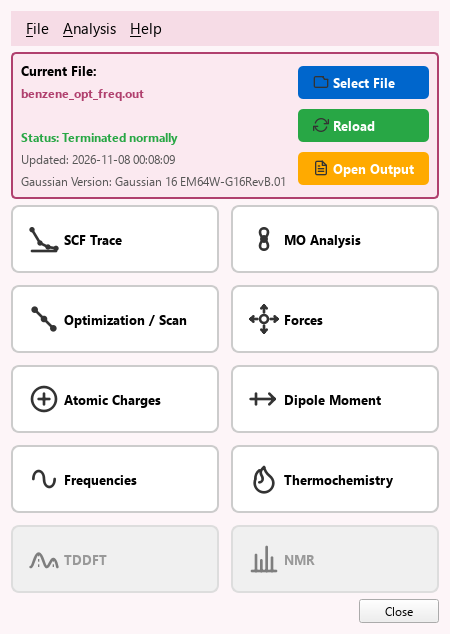
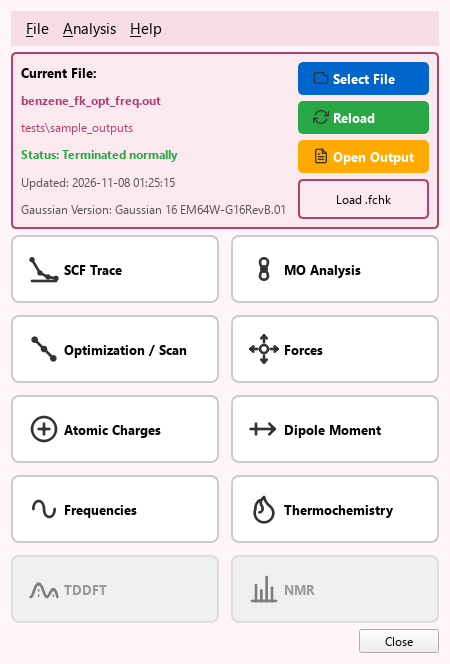
Validate checkpoint attachments and add Pages verification
Reject incompatible charge, spin and incomplete geometry, refuse missing orbitals, and validate shell data before replacing results. Add regression coverage and refresh fchk guidance and the main-window screenshot.

Assisted-by: GPT-6.1 Sol

diff --git a/google84ba9bc3a8e4c11c.html b/google84ba9bc3a8e4c11c.html
@@ -1,0 +1,1 @@
+google-site-verification: google84ba9bc3a8e4c11c.html

diff --git a/tests/test_fchk.py b/tests/test_fchk.py
@@ -10,6 +10,7 @@ import os
 import sys
 import types
 import unittest
+from unittest.mock import patch
 
 try:
     import numpy as np
@@ -265,6 +266,49 @@ class TestOrbitalsFromACheckpointAreOrthonormal(unittest.TestCase):
 
 
 class TestALogWithACheckpoint(unittest.TestCase):
+    def test_charge_spin_and_incomplete_geometry_are_refused(self):
+        for key, value, reason in (
+            ("charge", 1, "charge"),
+            ("mult", 3, "multiplicity"),
+            ("coords", [[0.0, 0.0, 0.0]], "geometry"),
+        ):
+            with self.subTest(field=key):
+                parser = _log("water_fk_plain")
+                parser.data[key] = value
+                self.assertIn(reason, parser.merge_fchk(_text("water_fk_plain.fchk")))
+                self.assertEqual(parser.data["mo_coeffs"], {})
+
+    def test_missing_orbitals_are_not_reported_as_a_success(self):
+        parser = _log("water_fk_mo")
+        original = parser.data["mo_coeffs"]
+        sections = _module("fchk").read_sections(_text("water_fk_mo.fchk"))
+        del sections["Alpha MO coefficients"]
+        with patch.object(_module("fchk"), "read_sections", return_value=sections):
+            self.assertIn("no complete", parser.merge_fchk("checkpoint"))
+        self.assertIs(parser.data["mo_coeffs"], original)
+
+    def test_damaged_basis_is_rejected_without_replacing_existing_orbitals(self):
+        for name, value in (
+            ("Shell to atom map", [99]),
+            ("Shell to atom map", [0]),
+            ("Number of primitives per shell", [0]),
+            ("Primitive exponents", [1.0]),
+            ("P(S=P) Contraction coefficients", [1.0]),
+            ("Shell types", [99]),
+        ):
+            with self.subTest(section=name, value=value):
+                parser = _log("water_fk_mo")
+                original = parser.data["mo_coeffs"]
+                sections = _module("fchk").read_sections(_text("water_fk_mo.fchk"))
+                if name in ("Shell to atom map", "Number of primitives per shell", "Shell types"):
+                    sections[name][0] = value[0]
+                else:
+                    sections[name] = value
+                with patch.object(_module("fchk"), "read_sections", return_value=sections):
+                    with self.assertRaises(ValueError):
+                        parser.merge_fchk("checkpoint")
+                self.assertIs(parser.data["mo_coeffs"], original)
+
     def test_the_orbitals_join_the_logs_results(self):
         parser = _log("water_fk_plain")
         self.assertEqual(parser.merge_fchk(_text("water_fk_plain.fchk")), "")
@@ -293,6 +337,12 @@ class TestALogWithACheckpoint(unittest.TestCase):
 
 
 class TestDamagedAndForeignFiles(unittest.TestCase):
+    def test_incomplete_coordinate_array_is_rejected(self):
+        sections = _module("fchk").read_sections(_text("water_fk_mo.fchk"))
+        sections["Current cartesian coordinates"].pop()
+        with self.assertRaisesRegex(ValueError, "coordinates"):
+            _module("fchk").structure(sections)
+
     def test_other_text_is_not_a_checkpoint(self):
         fchk = _module("fchk")
         self.assertFalse(fchk.looks_like_fchk(_text("water_fk_mo.out")))

diff --git a/gaussian_result_analyzer/fchk.py b/gaussian_result_analyzer/fchk.py
@@ -143,6 +143,10 @@ def _triples(values, factor=1.0):
 def structure(sections):
     """(element symbols, coordinates in Angstrom)."""
     atoms = [_symbol(number) for number in sections["Atomic numbers"]]
+    if len(atoms) != sections.get("Number of atoms", len(atoms)) or len(
+        sections["Current cartesian coordinates"]
+    ) != 3 * len(atoms):
+        raise ValueError("The checkpoint coordinates do not match the number of atoms.")
     return atoms, _triples(
         sections["Current cartesian coordinates"], BOHR_TO_ANGSTROM
     )
@@ -157,7 +161,19 @@ def basis_shells(sections, coords):
     coefficients = sections.get("Contraction coefficients")
     if not (types and counts and atoms and exponents and coefficients):
         return []
+    if not (len(types) == len(counts) == len(atoms)) or any(
+        count < 1 for count in counts
+    ):
+        raise ValueError("The checkpoint shell arrays have inconsistent lengths.")
+    if any(atom < 1 or atom > len(coords) for atom in atoms):
+        raise ValueError("The checkpoint shell map refers to a missing atom.")
+    if sum(counts) != len(exponents) or len(exponents) != len(coefficients):
+        raise ValueError("The checkpoint primitive arrays have inconsistent lengths.")
     sp_coefficients = sections.get("P(S=P) Contraction coefficients")
+    if -1 in types and (not sp_coefficients or len(sp_coefficients) != len(exponents)):
+        raise ValueError("An SP shell has incomplete P coefficients.")
+    if any(abs(shell_type) >= len(_SHELL_LETTER) for shell_type in types):
+        raise ValueError("The checkpoint contains an unsupported shell type.")
     shells = []
     start = 0
     for shell_type, count, atom in zip(types, counts, atoms):
@@ -423,10 +439,16 @@ def why_it_differs(log_data, sections):
     atoms, coords = structure(sections)
     if atoms != log_data.get("atoms"):
         return "its atoms differ from the output file's"
+    for key, name in (("charge", "Charge"), ("mult", "Multiplicity")):
+        if name in sections and sections[name] != log_data.get(key):
+            return f"its {name.lower()} differs from the output file's"
+    log_coords = log_data.get("coords") or []
+    if len(coords) != len(log_coords) or any(len(row) != 3 for row in log_coords):
+        return "its geometry or orientation differs from the output file's"
     largest = max(
         (
             abs(a - b)
-            for pair in zip(coords, log_data.get("coords") or [])
+            for pair in zip(coords, log_coords)
             for a, b in zip(*pair)
         ),
         default=float("inf"),

diff --git a/gaussian_result_analyzer/parser.py b/gaussian_result_analyzer/parser.py
@@ -139,21 +139,24 @@ class GaussianParser(
         sections = fchk.read_sections(content)
         reason = fchk.why_it_differs(self.data, sections)
         if not reason:
-            self._take_orbitals(sections)
+            if not self._take_orbitals(sections):
+                return "it has no complete molecular orbitals and basis set"
         return reason
 
     def _take_orbitals(self, sections):
         """Replace orbitals and basis with the checkpoint's, when it has them."""
         atoms, coords = fchk.structure(sections)
+        shells = fchk.basis_shells(sections, coords)
         orbitals = fchk.molecular_orbitals(sections, atoms)
-        if not orbitals:
-            return
+        if not orbitals or not shells:
+            return False
         types = sections["Shell types"]
         self.data["mo_coeffs"] = orbitals
         self.data["cartesian_d"] = 2 in types
         self.data["cartesian_f"] = 3 in types
-        self.data["basis_set_shells"] = fchk.basis_shells(sections, coords)
+        self.data["basis_set_shells"] = shells
         self.parse_orbital_energies()
+        return True
 
     def parse_all(self, progress=None):
         """Run every parse step.

diff --git a/CLAUDE.md b/CLAUDE.md
@@ -4,8 +4,9 @@ Guidance for Claude Code when working in this repository.
 
 ## What this is
 
-A MoleditPy plugin that parses Gaussian quantum-chemistry output (`.log`, `.out`) and
-presents it as analysis dialogs — MO visualisation, vibrational modes, NMR,
+A MoleditPy plugin that reads Gaussian quantum-chemistry output (`.log`, `.out`)
+and formatted checkpoints (`.fchk`, `.fch`) and presents analysis dialogs —
+MO visualisation, vibrational modes, NMR,
 TD-DFT, charges, forces, trajectories. PySide6 for the UI, pyvista for the 3D
 viewer, matplotlib for plots, rdkit for molecule handling.
 
@@ -31,6 +32,12 @@ as a zip of that directory.
   allowed in any of them.
 - `gui.py` — `GaussianResultAnalyzerDialog`, the main window. Owns the file loading,
   the 3D structure, atom picking, and one `show_*` launcher per analysis dialog.
+- `fchk.py` — formatted checkpoint sections, structure, basis and orbitals, plus
+  properties available without a log. `loading.py` finds matching sibling files;
+  the main window's **Load .fchk** attaches one manually. Attachment checks atoms,
+  geometry, charge, multiplicity and SCF energy before replacing orbitals.
+  `tests/test_fchk.py` compares the paired `*_fk_*.out` / `.fchk` fixtures and
+  independently checks orbital orthonormality on a numerical grid.
 - One module per analysis type (`freq_analysis.py`, `mo_analysis.py`, …), each a
   self-contained `QDialog`. `NMRDialog` is split the same way `GaussianParser` is:
   `nmr_analysis.py` holds the dialog and its UI, with `nmr_merge.py` (peak
